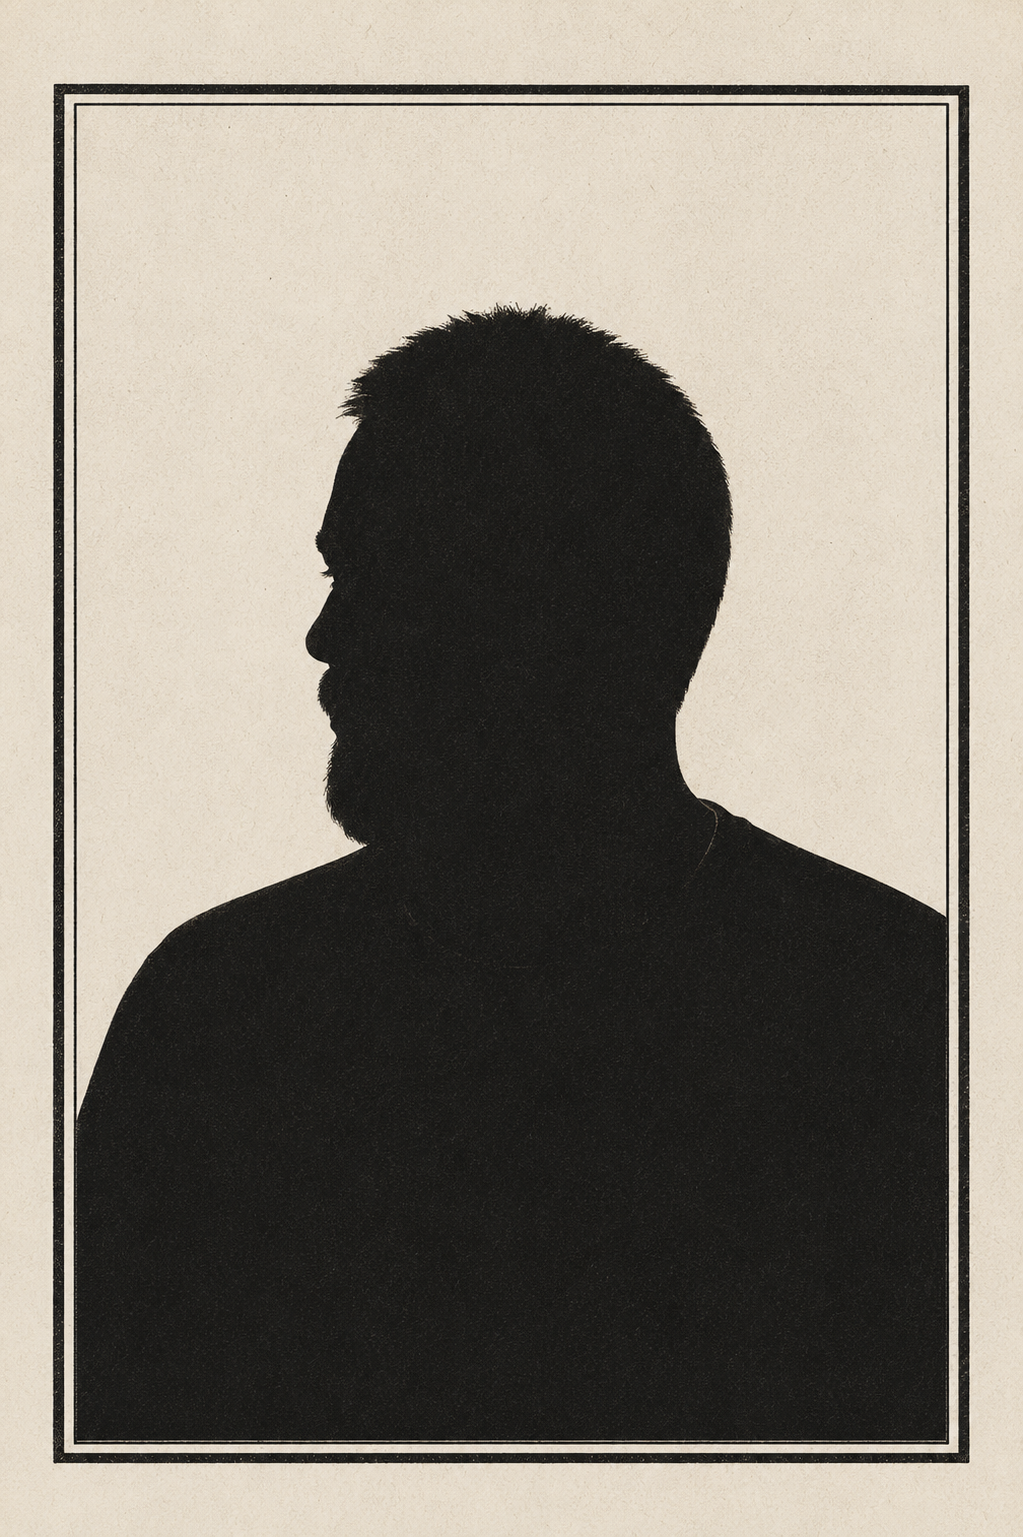
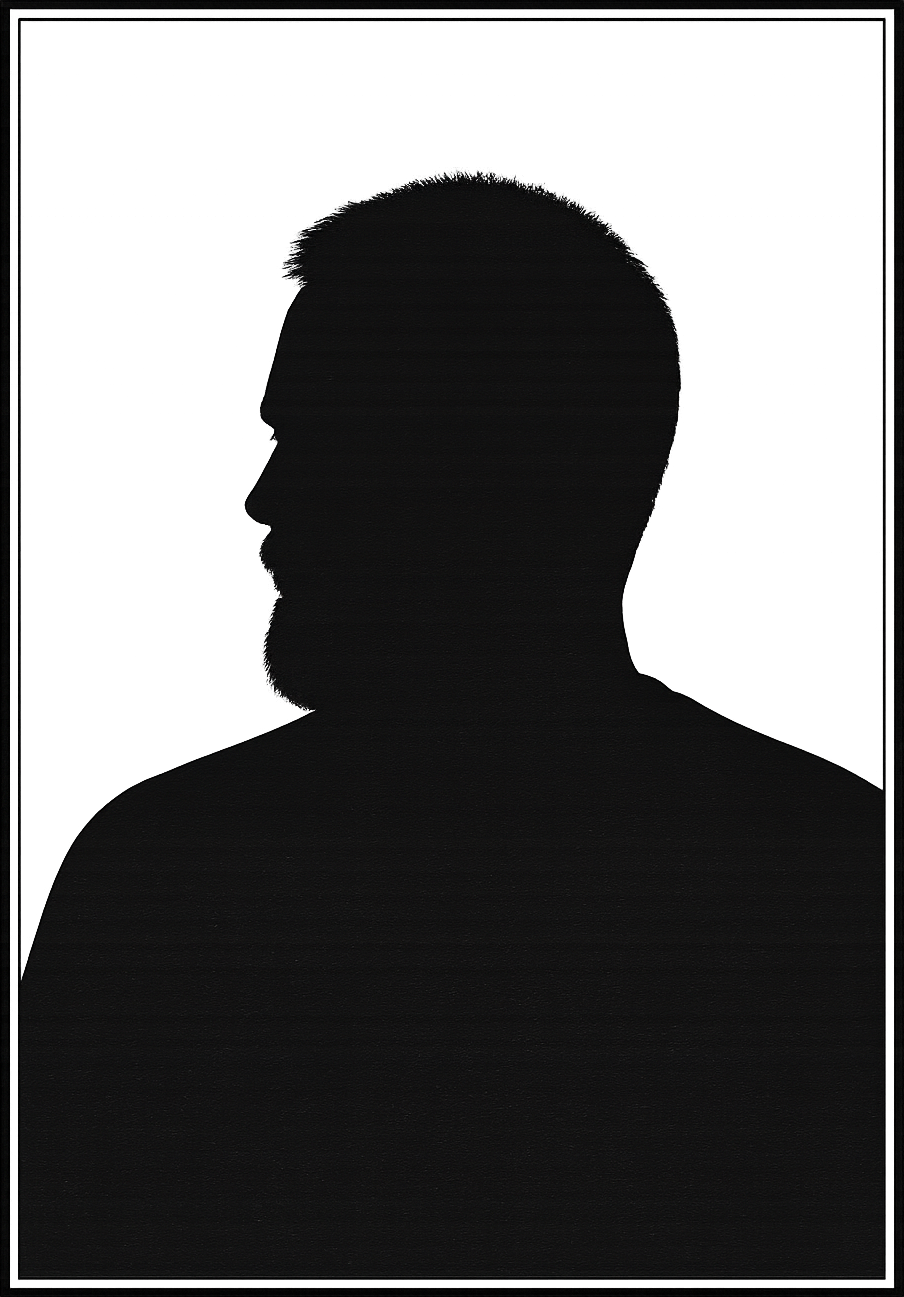
style: expand editorial profile layout

diff --git a/css/styles.css b/css/styles.css
@@ -389,6 +389,29 @@ button{
   margin:0;
 }
 
+.about .about-copy{
+  padding:24px 0;
+}
+
+.about-layout{
+  display:grid;
+  grid-template-columns:minmax(0, 1fr) clamp(190px, 22vw, 260px);
+  align-items:center;
+  gap:clamp(28px, 5vw, 64px);
+  max-width:920px;
+  text-align:left;
+}
+
+.about-layout p{
+  white-space:pre-line;
+}
+
+.about-layout__portrait{
+  display:block;
+  width:100%;
+  height:auto;
+}
+
 .about-copy--compact{
   margin-bottom:32px;
   padding:18px 0;
@@ -400,6 +423,7 @@ button{
   flex-direction:column;
   padding:34px 52px 32px;
   border-top:4px solid var(--red);
+  border-bottom:1px solid var(--paper-mid);
   animation:fadeUp .6s ease .1s both;
 }
 
@@ -450,6 +474,30 @@ button{
   min-height:100%;
   padding:24px 20px;
   transition:background .18s;
+}
+
+.portfolio-layout{
+  display:grid;
+  grid-template-columns:clamp(140px, 16vw, 200px) minmax(0, 1fr);
+  align-items:start;
+  gap:clamp(28px, 5vw, 64px);
+}
+
+.portfolio-layout__image{
+  display:block;
+  width:100%;
+  height:auto;
+  padding:12px;
+  border:1px solid var(--ink);
+  background:var(--paper-warm);
+}
+
+.portfolio-layout__content{
+  min-width:0;
+}
+
+.portfolio-layout > .card-footer{
+  grid-column:2;
 }
 
 .card:hover{
@@ -882,10 +930,6 @@ button{
 }
 
 @media (max-width:820px){
-  .masthead-eyebrow{
-    display:none;
-  }
-
   .masthead-tools{
     align-items:flex-start;
   }
@@ -951,6 +995,24 @@ button{
   .section-flag__label{
     font-size:.6rem;
     letter-spacing:.18em;
+  }
+
+  .about-layout,
+  .portfolio-layout{
+    grid-template-columns:1fr;
+  }
+
+  .about-layout__portrait,
+  .portfolio-layout__image{
+    width:min(62vw, 220px);
+  }
+
+  .about-layout__portrait{
+    justify-self:end;
+  }
+
+  .portfolio-layout > .card-footer{
+    grid-column:1;
   }
 
   .projects-grid,

diff --git a/index.html b/index.html
@@ -90,8 +90,9 @@
             <span class="section-flag__line"></span>
         </div>
 
-        <article class="about-copy">
+        <article class="about-copy about-layout">
             <p data-i18n="about.text"></p>
+            <img src="images/portrait.png" alt="Portrait of Vikindor" class="about-layout__portrait">
         </article>
     </section>
 
@@ -102,33 +103,36 @@
             <span class="section-flag__line"></span>
         </div>
 
-        <article class="card portfolio-lead" data-release="18-12-2025" data-stars data-script-id="todoist-test-automation">
-            <div class="meta">
-                <span class="tag">QA Automation</span>
-                <span class="tag">API</span>
-                <span class="tag">Web UI</span>
-                <span class="tag">Android</span>
-                <span class="tag">REST Assured</span>
-                <span class="tag">Java</span>
-                <span class="tag">Selenide</span>
-                <span class="tag">Appium</span>
-                <span class="tag">JUnit 5</span>
-                <span class="tag">Allure</span>
-            </div>
+        <article class="card portfolio-lead portfolio-layout" data-release="18-12-2025" data-stars data-script-id="todoist-test-automation">
+            <img src="images/todoist_logo.png" alt="Todoist logo" class="portfolio-layout__image">
 
-            <div class="card-head card-head--lead">
-                <h2 class="card-title card-title--lead" data-i18n="portfolio.todoist.title"></h2>
-                <img src="images/todoist_logo.png" alt="Todoist logo" class="icon-card icon-card--lead">
-            </div>
+            <div class="portfolio-layout__content">
+                <div class="meta">
+                    <span class="tag">QA Automation</span>
+                    <span class="tag">API</span>
+                    <span class="tag">Web UI</span>
+                    <span class="tag">Android</span>
+                    <span class="tag">REST Assured</span>
+                    <span class="tag">Java</span>
+                    <span class="tag">Selenide</span>
+                    <span class="tag">Appium</span>
+                    <span class="tag">JUnit 5</span>
+                    <span class="tag">Allure</span>
+                </div>
 
-            <p data-i18n="portfolio.todoist.description"></p>
+                <div class="card-head card-head--lead">
+                    <h2 class="card-title card-title--lead" data-i18n="portfolio.todoist.title"></h2>
+                </div>
 
-            <div class="actions">
-                <a class="btn" href="https://github.com/Vikindor/todoist-test-automation" target="_blank"
-                   rel="noopener">
-                    <img src="images/github_logo.png" alt="GitHub logo" class="icon-badge">
-                    GitHub
-                </a>
+                <p data-i18n="portfolio.todoist.description"></p>
+
+                <div class="actions">
+                    <a class="btn" href="https://github.com/Vikindor/todoist-test-automation" target="_blank"
+                       rel="noopener">
+                        <img src="images/github_logo.png" alt="GitHub logo" class="icon-badge">
+                        GitHub
+                    </a>
+                </div>
             </div>
         </article>
     </section>

diff --git a/js/metrics.js b/js/metrics.js
@@ -72,7 +72,7 @@
       installsEl.dataset.i18nTitle = 'metrics.installsTitle';
 
       const icon = document.createElement('img');
-      icon.src = 'icons/download.png';
+      icon.src = 'images/download.png';
       icon.alt = '';
       icon.className = 'icon-metric';
 
@@ -92,7 +92,7 @@
       starsEl.dataset.i18nTitle = 'metrics.starsTitle';
 
       const icon = document.createElement('img');
-      icon.src = 'icons/star.png';
+      icon.src = 'images/star.png';
       icon.alt = '';
       icon.className = 'icon-metric';
 